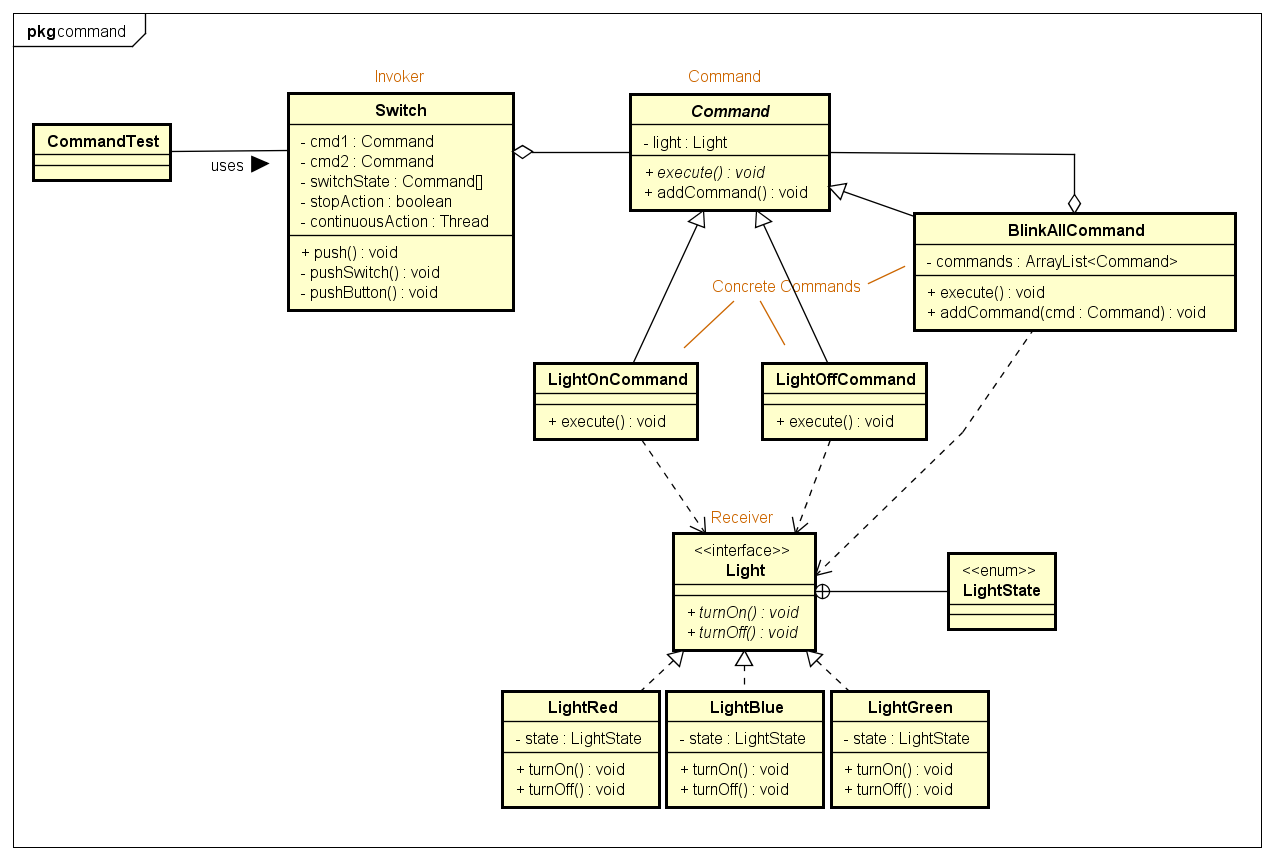
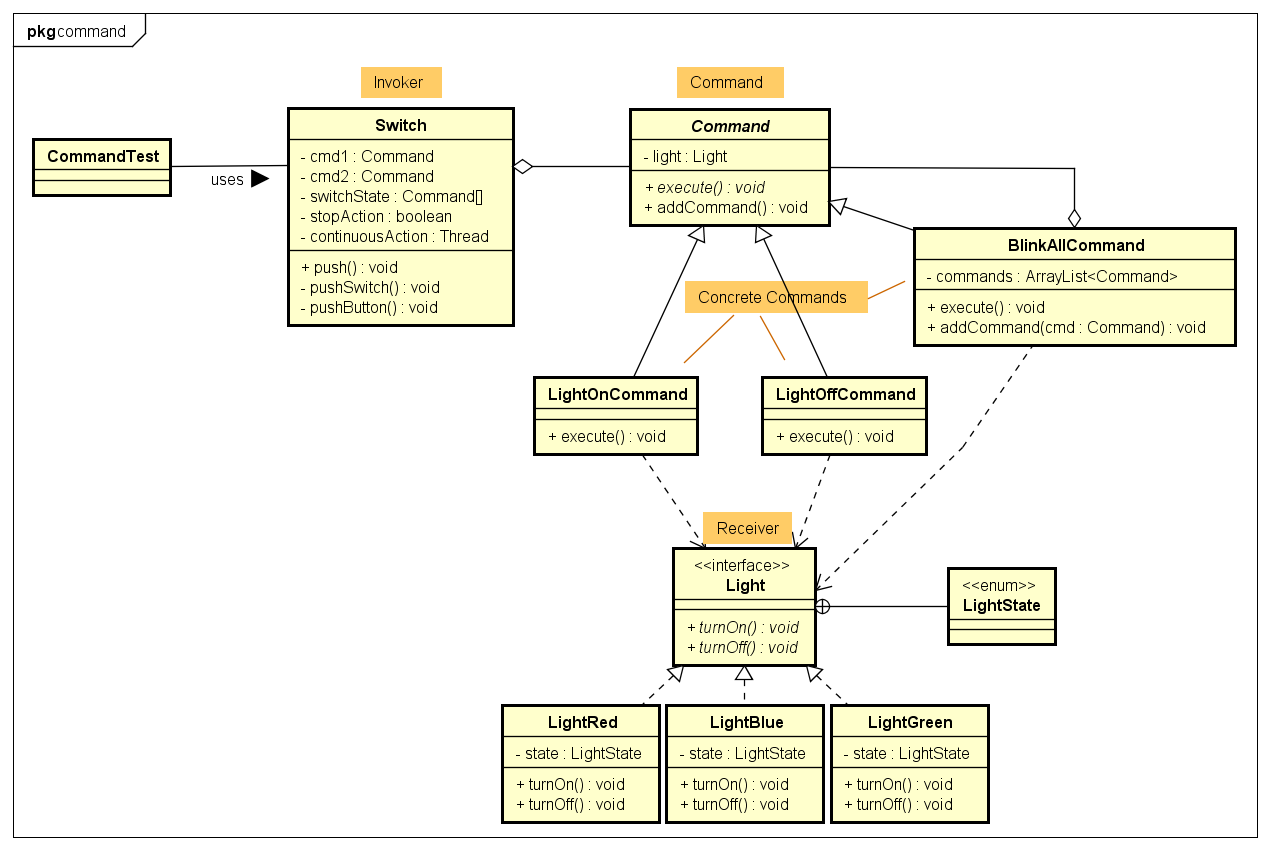
Added comments, made UML clearer

diff --git a/DP22_command/src/command/Light.java b/DP22_command/src/command/Light.java
@@ -1,7 +1,7 @@
 package command;
 
 /**
- * Interface for the concrete receivers.
+ * Interface for the concrete receivers. Models a light, that can be switched on/off.
  * @author Antti Nieminen
  */
 public interface Light {

diff --git a/DP22_command/src/command/LightGreen.java b/DP22_command/src/command/LightGreen.java
@@ -1,7 +1,7 @@
 package command;
 
 /**
- * A receiver class.
+ * A receiver class. Models a green light, that can be switched on/off.
  * @author Antti Nieminen
  */
 public class LightGreen implements Light {

diff --git a/DP22_command/src/command/LightBlue.java b/DP22_command/src/command/LightBlue.java
@@ -1,7 +1,7 @@
 package command;
 
 /**
- * A receiver class.
+ * A receiver class. Models a blue light, that can be switched on/off.
  * @author Antti Nieminen
  */
 public class LightBlue implements Light {

diff --git a/DP22_command/src/command/LightRed.java b/DP22_command/src/command/LightRed.java
@@ -1,7 +1,7 @@
 package command;
 
 /**
- * A receiver class.
+ * A receiver class. Models a red light, that can be switched on/off.
  * @author Antti Nieminen
  */
 public class LightRed implements Light {
